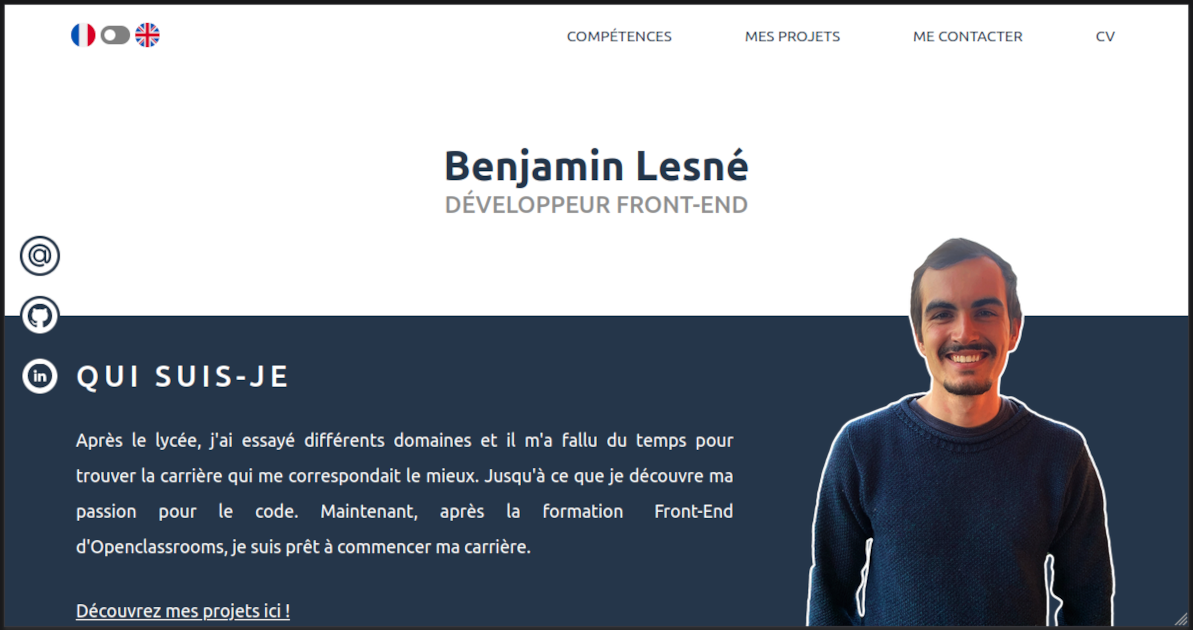
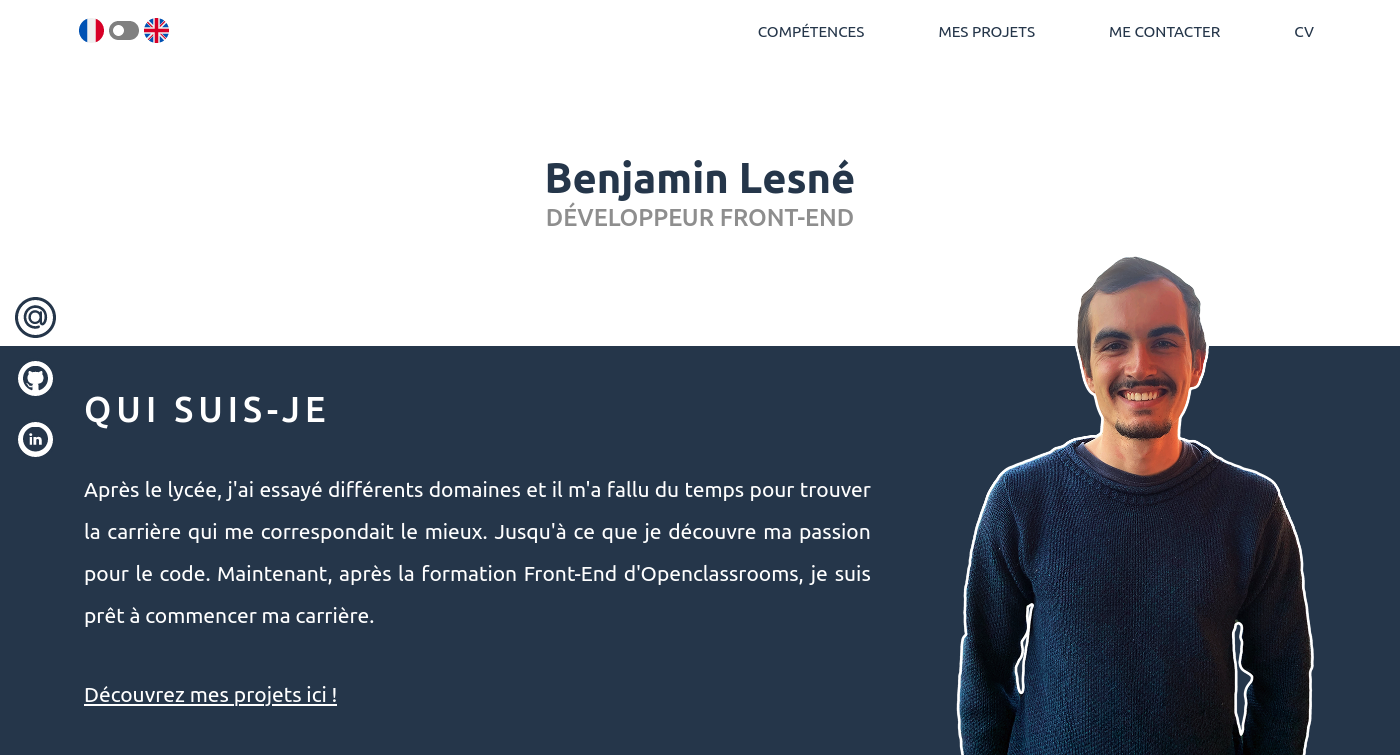
updated screenshot.png. updated OpenGraph tags related to it.

Changed region(s): [[0.0, 0.0, 1.0, 1.0], [0.3722, 0.2111, 0.6513, 0.3619]]

diff --git a/public/index.html b/public/index.html
@@ -14,8 +14,8 @@
   Created using create-react-app." />
   <meta property="og:url" content="https://benjaminlesne.github.io/Portfolio_03012022/" />
   <meta property="og:image" content="%PUBLIC_URL%/screenshot.png" />
-  <meta property="og:image:width" content="1200">
-  <meta property="og:image:height" content="630">
+  <meta property="og:image:width" content="1400">
+  <meta property="og:image:height" content="755">
   <!--
       manifest.json provides metadata used when your web app is installed on a
       user's mobile device or desktop. See https://developers.google.com/web/fundamentals/web-app-manifest/
